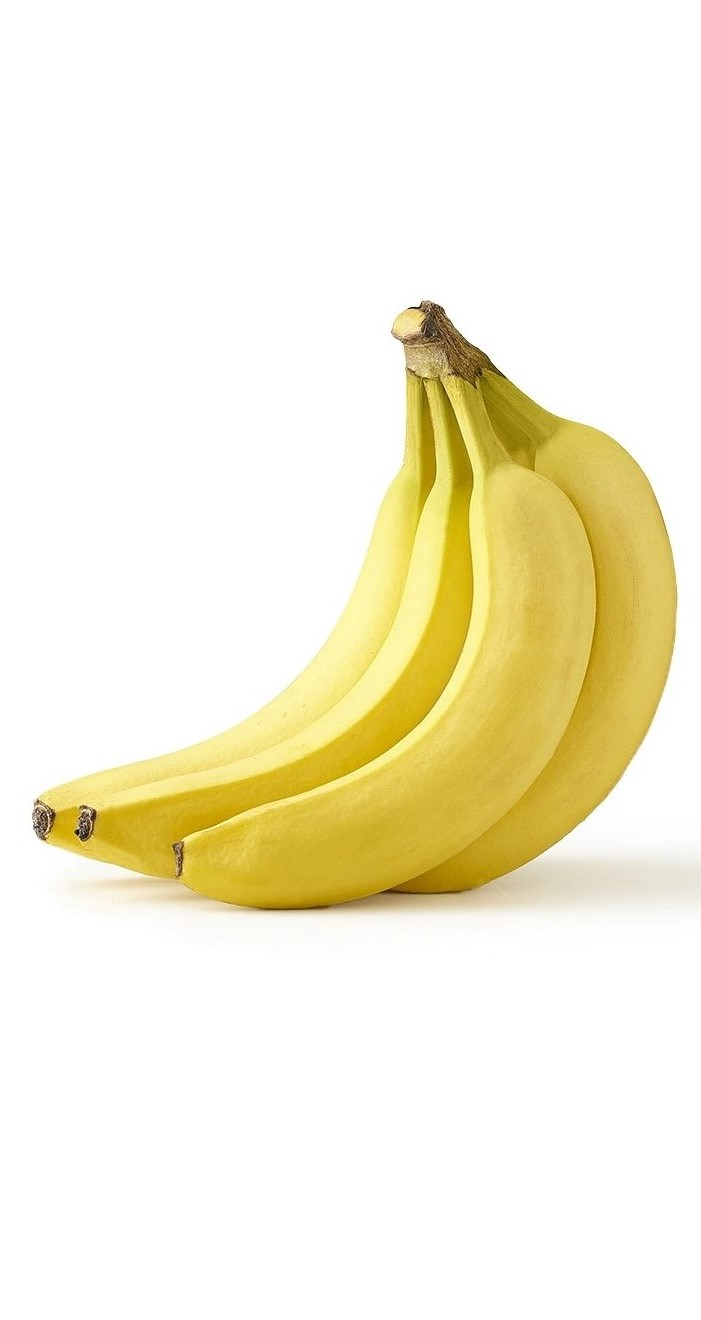
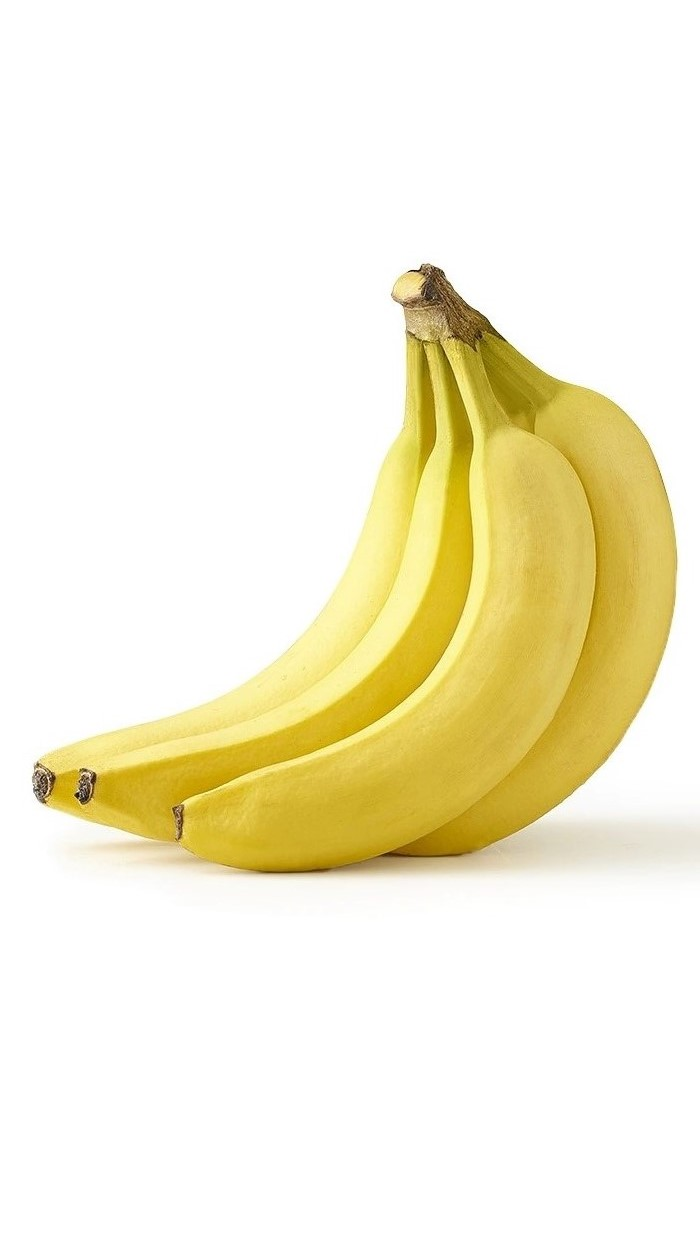
added pictures to html + styling + corrected banana image

diff --git a/styles.css b/styles.css
@@ -128,13 +128,30 @@ body {
 .content-pictures {
     display: flex;
     flex-direction: row;
-    justify-content: space-between;
+    justify-content: center;
     align-items: center;
+    width: 100%;
+}
+
+.product-link {
+    border: solid 1px black;
+    margin: 40px 20px;
+}
+
+.home-page-image {
+    width: auto;
+    height: 35vw;
+    min-height: 600px;
 }
 
 .add-to-cart-button {
     display: flex;
     flex-direction: row;
-    justify-content: space-between;
+    justify-content: center;
     align-items: center;
+    width: 100%;
+}
+
+.add-to-cart-link {
+    margin: 0px 170px;
 }
